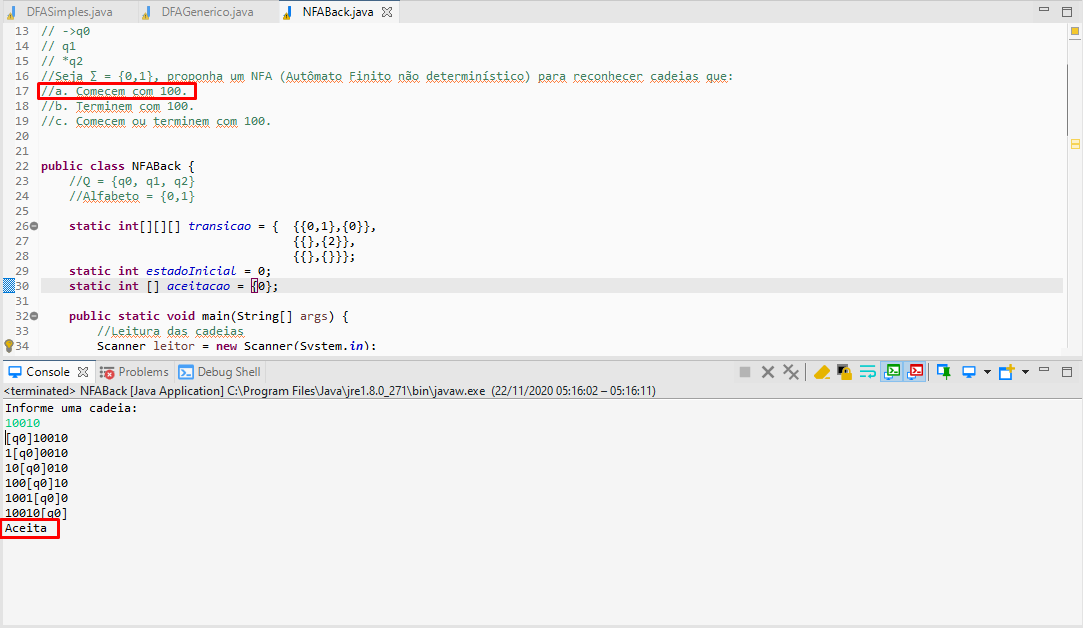
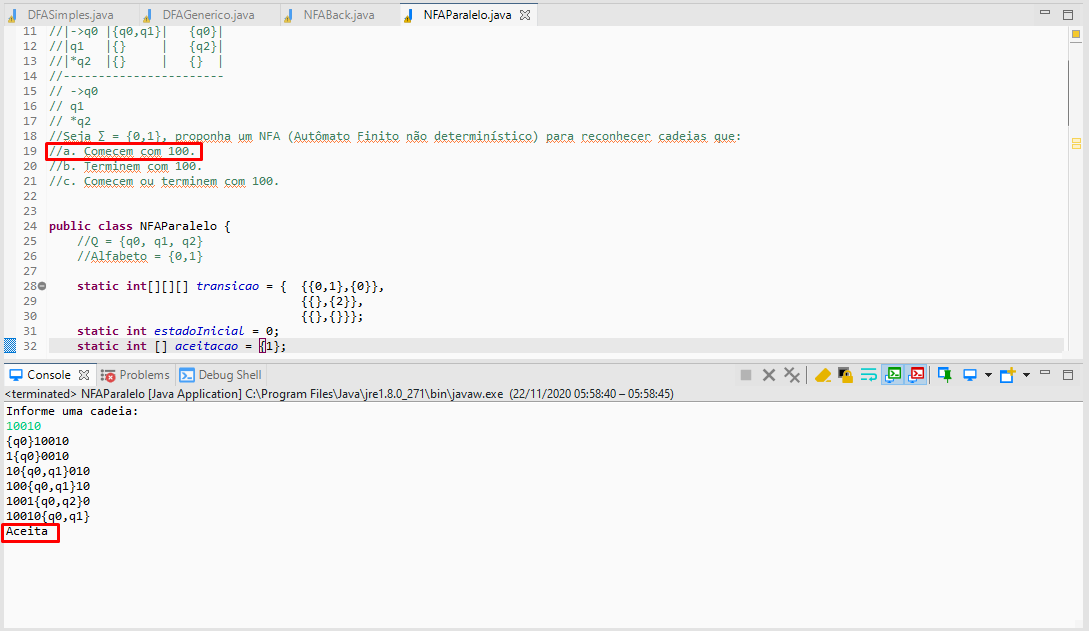
Implementação de um NFA PARALELO(Busca em Paralelo) e imagens de teste

Changed region(s): [[0.0, 0.0, 1.0, 0.8774], [0.6704, 0.5748, 1.0, 0.6354], [0.9751, 0.2118, 1.0, 0.242]]

diff --git a/LFA/NFAParalelo.java b/LFA/NFAParalelo.java
@@ -1,0 +1,103 @@
+import java.util.Scanner;
+import java.util.Set;
+import java.util.TreeSet;
+
+//Q = {q0, q1, q2}
+//q0 = q0
+//F = q2
+//Alfabeto = {0,1}
+//-----------------------
+//|		|	0	|	1	|
+//|->q0	|{q0,q1}|	{q0}|
+//|q1	|{}		|	{q2}|
+//|*q2	|{}		|	{}	|
+//-----------------------
+// ->q0
+// q1
+// *q2
+//Seja ∑ = {0,1}, proponha um NFA (Autômato Finito não determinístico) para reconhecer cadeias que:
+//a. Comecem com 100.
+//b. Terminem com 100.
+//c. Comecem ou terminem com 100.
+
+
+public class NFAParalelo {
+	//Q = {q0, q1, q2}
+	//Alfabeto = {0,1}
+	
+	static int[][][] transicao = {	{{0,1},{0}},
+									{{},{2}},
+									{{},{}}};
+	static int estadoInicial = 0;
+	static int [] aceitacao = {1};
+	
+	public static void main(String[] args) {
+		//Leitura das cadeias
+		Scanner leitor = new Scanner(System.in);
+		String cadeia;
+		char simbolo;		
+		System.out.println("Informe uma cadeia: ");
+		cadeia = leitor.nextLine();
+		
+		int posicao = 0;		
+		int[] estados = {estadoInicial};
+		
+		while(posicao < cadeia.length()) {
+			imprimeCI(cadeia, estados, posicao);
+			int [] novosEstados = new int[] {};
+			int elemento = Integer.parseInt(cadeia.substring(posicao, posicao + 1));
+			for(int i:estados) {
+				int[] destinoTransicao = transicao[i][elemento];
+				novosEstados = uniao(novosEstados, destinoTransicao);
+			}
+			
+			estados = novosEstados;
+			if(estados.length == 0) {
+				break;
+			}
+			posicao++;
+		}
+		imprimeCI(cadeia, estados, posicao);
+		
+		if(aceita(estados)) {
+			System.out.println("Aceita");
+		} else {
+			System.out.println("Rejeitada");
+		}
+	}
+	
+	//Metodos
+	
+	public static int[] uniao(int[] estados, int[] novosEstados) {
+		Set<Integer> uniao = new TreeSet<>();
+		for(int i: estados) uniao.add(i);
+		for(int i: novosEstados) uniao.add(i);
+		int[] ret = new int [uniao.size()];
+		int j = 0;
+		for(int i:uniao) ret[j++] = i;
+		return ret;
+	}
+	
+	public static boolean aceita(int[] estados) {
+		if(estados == null) return false;
+		for(int i:estados) {
+			for(int j:aceitacao) {
+				if(i == j) {
+					return true;
+				}
+			}
+		}
+		return false;
+	}
+	
+	public static void imprimeCI(String cadeia, int[] estado, int posicao) {
+		System.out.print(cadeia.substring(0,posicao) + "{");
+		for(int i=0; i < estado.length; i++ ) {
+			System.out.print("q" + estado[i]);
+			if(i<estado.length - 1) {
+				System.out.print(",");
+			}
+		}
+		System.out.println("}" + cadeia.substring(posicao));
+	}
+}

diff --git a/LFA/NFABack.java b/LFA/NFABack.java
@@ -27,7 +27,7 @@ public class NFABack {
 									{{},{2}},
 									{{},{}}};
 	static int estadoInicial = 0;
-	static int [] aceitacao = {0};
+	static int [] aceitacao = {1};
 	
 	public static void main(String[] args) {
 		//Leitura das cadeias
